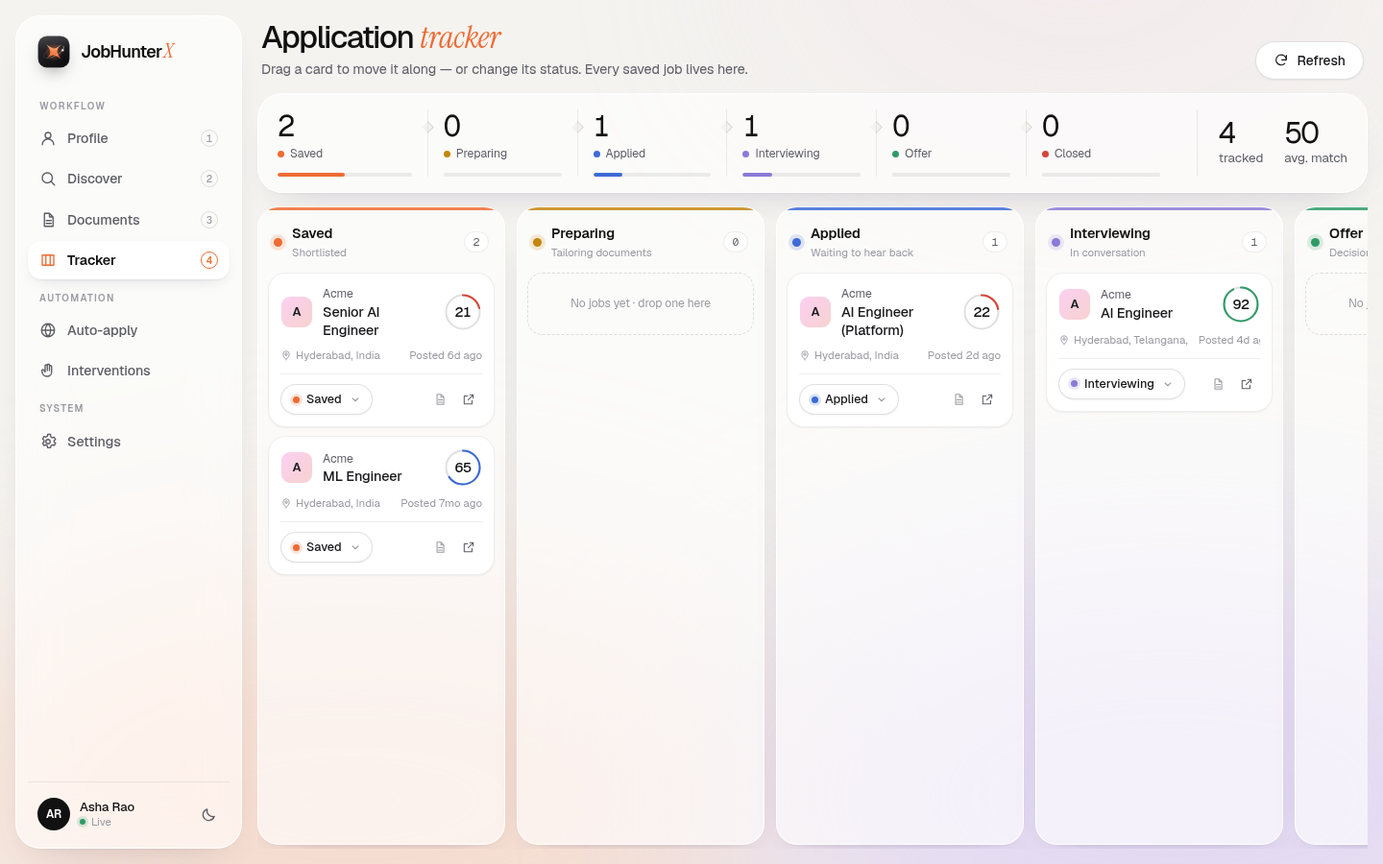
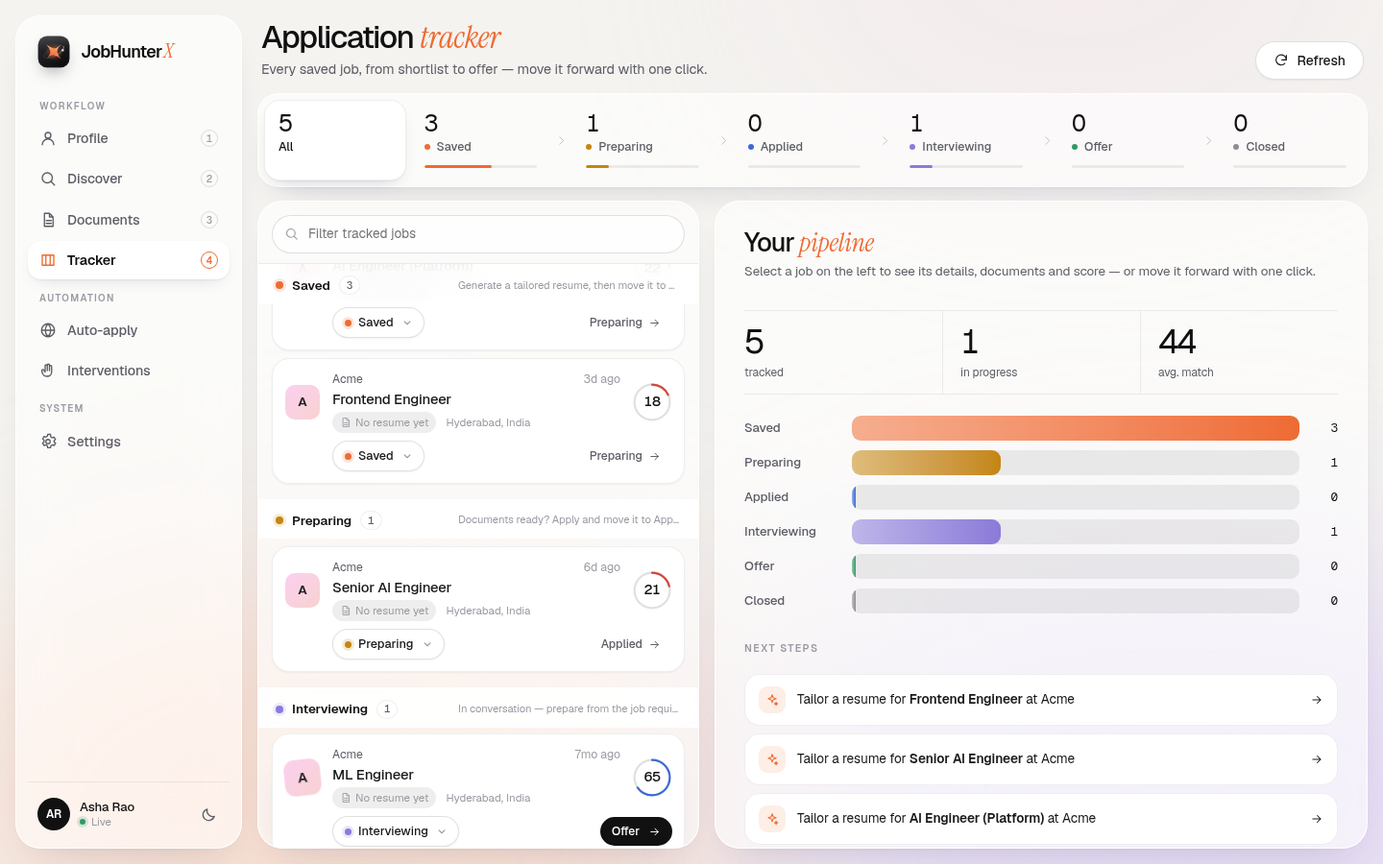
Redesign tracker as stage bar + list/detail workspace
Replaces the horizontal kanban (long empty columns, sideways scrolling):
- Stage bar with counts and share bars for the whole journey; click to
  filter (All, Saved, Preparing, Applied, Interviewing, Offer, Closed)
- Grouped list with sticky stage headers and a short tip per stage;
  each row shows score, resume status, a status dropdown and a one-click
  "move to next stage" button
- Selected job opens inline beside the list (Esc closes); otherwise a
  pipeline overview with funnel bars and real next steps (jobs that
  still need a tailored resume)
- Compact grid on phones; no horizontal page scroll

Claude-Session: https://claude.ai/code/session_01WFsbeEeBa2PdkHRR67BXba

diff --git a/jobhunterx/jobhunterx/web/js/views/other.js b/jobhunterx/jobhunterx/web/js/views/other.js
@@ -9,58 +9,80 @@ import { Button, Badge, Skeleton, ErrorBox, EmptyState, Icon, Field, PageHead, S
 import { TRACKING_LABEL, DEFAULT_TRACKING, relTime, humanize, fmtNum, safeUrl } from '../lib/format.js';
 import { setTheme } from '../actions.js';
 import { ReconnectingSocket } from '../lib/ws.js';
+import { JobDetail } from './jobdetail.js';
 
 // ---------------------------------------------------------------------------- tracker
-// Lanes follow the application journey; "Closed" gathers rejected and archived jobs.
+// Stages follow the application journey; "Closed" gathers rejected and archived jobs.
 const LANES = [
-  { key: 'saved', label: 'Saved', hint: 'Shortlisted', statuses: ['saved'], drop: 'saved' },
-  { key: 'preparing', label: 'Preparing', hint: 'Tailoring documents', statuses: ['preparing'], drop: 'preparing' },
-  { key: 'applied', label: 'Applied', hint: 'Waiting to hear back', statuses: ['applied'], drop: 'applied' },
-  { key: 'interviewing', label: 'Interviewing', hint: 'In conversation', statuses: ['interviewing'], drop: 'interviewing' },
-  { key: 'offer', label: 'Offer', hint: 'Decision time', statuses: ['offer'], drop: 'offer' },
-  { key: 'closed', label: 'Closed', hint: 'Rejected or archived', statuses: ['rejected', 'archived'], drop: 'archived' },
+  { key: 'saved', label: 'Saved', statuses: ['saved'], next: 'preparing', tip: 'Generate a tailored resume, then move it to Preparing.' },
+  { key: 'preparing', label: 'Preparing', statuses: ['preparing'], next: 'applied', tip: 'Documents ready? Apply and move it to Applied.' },
+  { key: 'applied', label: 'Applied', statuses: ['applied'], next: 'interviewing', tip: 'Waiting to hear back — follow up after a week.' },
+  { key: 'interviewing', label: 'Interviewing', statuses: ['interviewing'], next: 'offer', tip: 'In conversation — prepare from the job requirements.' },
+  { key: 'offer', label: 'Offer', statuses: ['offer'], next: null, tip: 'Decision time.' },
+  { key: 'closed', label: 'Closed', statuses: ['rejected', 'archived'], next: null, tip: 'Rejected or archived.' },
 ];
+const laneOf = (status) => LANES.find((l) => l.statuses.includes(status)) || LANES[0];
 
-function TrackCard({ job, statuses, selected, index, onOpen }) {
+function StageBar({ jobs, value, onChange }) {
+  const total = jobs.length;
+  const items = [{ key: 'all', label: 'All', n: total }, ...LANES.map((l) => ({ key: l.key, label: l.label, n: jobs.filter((j) => l.statuses.includes(j.tracking_status)).length }))];
+  return html`<nav class="stagebar card" aria-label="Pipeline stages">${items.map((it, i) => html`<button type="button" key=${it.key}
+      class=${`stage-tab s-${it.key} ${value === it.key ? 'on' : ''}`} aria-pressed=${value === it.key ? 'true' : 'false'} style=${{ '--i': i }} onClick=${() => onChange(it.key)}>
+      <span class="st-n"><${CountUp} value=${it.n} /></span>
+      <span class="st-l">${it.key !== 'all' ? html`<i class="st-dot"></i>` : null}${it.label}</span>
+      ${it.key !== 'all' ? html`<span class="st-bar"><span style=${{ width: `${total ? (it.n / total) * 100 : 0}%` }}></span></span>` : null}
+    </button>${i > 0 && i < items.length - 1 ? html`<span class="st-arrow" aria-hidden="true"><${Icon} name="next" size=${13} /></span>` : null}`)}</nav>`;
+}
+
+function TrackRow({ job, statuses, selected, index, onOpen }) {
   const pending = useStore((s) => !!s.pending.track[job.id]);
-  const [dragging, setDragging] = useState(false);
-  const apply = safeUrl(job.apply_url);
+  const lane = laneOf(job.tracking_status);
+  const next = lane.next && LANES.find((l) => l.key === lane.next);
   const docs = job.documents || {};
-  return html`<article class=${`track-card job-card ${selected ? 'is-selected' : ''} ${dragging ? 'dragging' : ''} ${pending ? 'is-moving' : ''}`} style=${{ '--i': index }}
-      draggable="true" onDragStart=${(e) => { e.dataTransfer.setData('text/x-job', job.id); e.dataTransfer.effectAllowed = 'move'; setDragging(true); }}
-      onDragEnd=${() => setDragging(false)}>
-    <button type="button" class="job-main" onClick=${() => onOpen(job.id)} aria-label=${`Open ${job.title} at ${job.company}`}>
-      <div class="tc-top"><${Monogram} name=${job.company} size=${34} />
-        <div class="grow"><div class="job-company">${job.company || 'Unknown company'}</div><strong class="track-title">${job.title}</strong></div>
-        <${ScoreRing} score=${job.match ? job.match.score : null} verdict=${job.match && job.match.verdict} size=${40} /></div>
-      <div class="tc-meta"><span><${Icon} name="pin" size=${12} />${job.location || 'Location not stated'}</span>
-        <span>${job.posted_at ? `Posted ${relTime(job.posted_at)}` : `Found ${relTime(job.discovered_at)}`}</span></div>
+  return html`<article class=${`track-row job-card ${selected ? 'is-selected' : ''} ${pending ? 'is-moving' : ''}`} style=${{ '--i': Math.min(index, 14) }}>
+    <button type="button" class="job-main tr-main" onClick=${() => onOpen(job.id)} aria-label=${`Open ${job.title} at ${job.company}`} aria-current=${selected ? 'true' : undefined}>
+      <${Monogram} name=${job.company} size=${38} />
+      <div class="grow">
+        <div class="job-company">${job.company || 'Unknown company'}<span class="job-when">${job.posted_at ? relTime(job.posted_at) : relTime(job.discovered_at)}</span></div>
+        <strong class="track-title">${job.title}</strong>
+        <div class="tr-sub"><span class=${`tc-doc ${docs.resume ? 'on' : ''}`}><${Icon} name="doc" size=${12} />${docs.resume ? 'Resume ready' : 'No resume yet'}</span>
+          <span>${job.location || 'Location not stated'}</span></div>
+      </div>
+      <${ScoreRing} score=${job.match ? job.match.score : null} verdict=${job.match && job.match.verdict} size=${42} />
     </button>
-    <div class="tc-foot">
+    <div class="tr-actions">
       <${Select} size="sm" label=${`Status for ${job.title}`} tone=${`s-${job.tracking_status}`} value=${job.tracking_status}
         onChange=${(v) => setTracking(job.id, v)} options=${statuses.map((t) => [t, TRACKING_LABEL[t] || humanize(t)])} />
-      <div class="tc-icons">
-        <span class=${`tc-doc ${docs.resume ? 'on' : ''}`} title=${docs.resume ? 'Tailored resume ready' : 'No tailored resume yet'}><${Icon} name="doc" size=${14} /></span>
-        ${apply ? html`<a class="icon-btn tc-link" href=${apply} target="_blank" rel="noopener noreferrer" aria-label="Open posting" title="Open posting"><${Icon} name="external" size=${14} /></a>` : null}
-      </div>
+      ${next ? html`<button type="button" class="advance" disabled=${pending} onClick=${() => setTracking(job.id, next.key)} title=${`Move to ${next.label}`}>
+        ${next.label} <${Icon} name="arrow" size=${13} /></button>` : null}
     </div>
   </article>`;
 }
 
-function Pipeline({ jobs }) {
-  const total = Math.max(1, jobs.length);
-  const tracked = jobs.filter((j) => j.match);
-  const avg = tracked.length ? Math.round(tracked.reduce((a, j) => a + j.match.score, 0) / tracked.length) : null;
-  return html`<section class="card pipeline" aria-label="Pipeline summary">
-    <div class="pl-stages">${LANES.map((l, i) => {
+function TrackerOverview({ jobs }) {
+  const total = jobs.length;
+  const max = Math.max(1, ...LANES.map((l) => jobs.filter((j) => l.statuses.includes(j.tracking_status)).length));
+  const scored = jobs.filter((j) => j.match);
+  const avg = scored.length ? Math.round(scored.reduce((a, j) => a + j.match.score, 0) / scored.length) : null;
+  const needResume = jobs.filter((j) => ['saved', 'preparing'].includes(j.tracking_status) && !(j.documents && j.documents.resume));
+  const active = jobs.filter((j) => ['applied', 'interviewing', 'offer'].includes(j.tracking_status)).length;
+  return html`<div class="tk-overview scroll">
+    <div class="tk-hero"><h2>Your <span class="serif">pipeline</span></h2><p class="muted small">Select a job on the left to see its details, documents and score — or move it forward with one click.</p></div>
+    <div class="tk-stats">
+      <div><span class="n"><${CountUp} value=${total} /></span><span class="l">tracked</span></div>
+      <div><span class="n"><${CountUp} value=${active} /></span><span class="l">in progress</span></div>
+      <div><span class="n">${avg == null ? '–' : html`<${CountUp} value=${avg} />`}</span><span class="l">avg. match</span></div>
+    </div>
+    <div class="funnel">${LANES.map((l, i) => {
       const n = jobs.filter((j) => l.statuses.includes(j.tracking_status)).length;
-      return html`<div class=${`pl-stage s-${l.key}`} key=${l.key} style=${{ '--i': i }}>
-        <div class="pl-num"><${CountUp} value=${n} /></div><div class="pl-label">${l.label}</div>
-        <div class="pl-bar"><span style=${{ width: `${(n / total) * 100}%` }}></span></div></div>`;
+      return html`<div class=${`fn-row s-${l.key}`} key=${l.key} style=${{ '--i': i }}><span class="fn-label">${l.label}</span>
+        <span class="fn-track"><span class="fn-fill" style=${{ width: `${(n / max) * 100}%` }}></span></span><span class="fn-n">${n}</span></div>`;
     })}</div>
-    <div class="pl-side"><div><span class="pl-big"><${CountUp} value=${jobs.length} /></span><span class="muted small">tracked</span></div>
-      <div><span class="pl-big">${avg == null ? '–' : html`<${CountUp} value=${avg} />`}</span><span class="muted small">avg. match</span></div></div>
-  </section>`;
+    ${needResume.length ? html`<div class="tk-todo"><div class="sec-title">Next steps</div>
+      ${needResume.slice(0, 5).map((j, i) => html`<a class="todo" key=${j.id} style=${{ '--i': i }} href=${`#/tracker/job/${encodeURIComponent(j.id)}`}>
+        <span class="todo-ico"><${Icon} name="spark" size=${14} /></span><span class="grow">Tailor a resume for <strong>${j.title}</strong> at ${j.company}</span><${Icon} name="arrow" size=${14} /></a>`)}
+    </div>` : null}
+  </div>`;
 }
 
 export function TrackerView() {
@@ -68,37 +90,48 @@ export function TrackerView() {
   const byId = useStore((s) => s.jobs.byId);
   const route = useStore((s) => s.route);
   const statuses = useStore((s) => (s.meta.data && s.meta.data.tracking_statuses) || DEFAULT_TRACKING);
-  const [over, setOver] = useState(null);
+  const [stage, setStage] = useState('all');
+  const [q, setQ] = useState('');
   const jobs = tr.ids.map((id) => byId[id]).filter(Boolean);
   const open = (id) => navigate(`#/tracker/job/${encodeURIComponent(id)}`);
-  const lanes = LANES.filter((l) => statuses.includes(l.drop));
-  const onDrop = (lane) => (e) => {
-    e.preventDefault(); setOver(null);
-    const id = e.dataTransfer.getData('text/x-job');
-    const job = byId[id];
-    if (job && !lane.statuses.includes(job.tracking_status)) setTracking(id, lane.drop);
-  };
+  const close = () => navigate('#/tracker');
+  useEffect(() => {
+    if (!route.jobId) return undefined;
+    const onKey = (e) => { if (e.key === 'Escape' && !document.querySelector('.overlay, .popover, .select-list')) close(); };
+    document.addEventListener('keydown', onKey);
+    return () => document.removeEventListener('keydown', onKey);
+  }, [route.jobId]);
+  const needle = q.trim().toLowerCase();
+  const visible = jobs.filter((j) => (stage === 'all' || LANES.find((l) => l.key === stage).statuses.includes(j.tracking_status))
+    && (!needle || `${j.title} ${j.company} ${j.location}`.toLowerCase().includes(needle)));
+  const groups = (stage === 'all' ? LANES : LANES.filter((l) => l.key === stage))
+    .map((l) => [l, visible.filter((j) => l.statuses.includes(j.tracking_status)).sort((a, b) => (b.match ? b.match.score : -1) - (a.match ? a.match.score : -1))])
+    .filter(([, g]) => g.length);
+  let k = 0;
   return html`<div class="view view-tracker">
-    <${PageHead} title=${html`Application <span class="serif">tracker</span>`} sub="Drag a card to move it along — or change its status. Every saved job lives here."
+    <${PageHead} title=${html`Application <span class="serif">tracker</span>`} sub="Every saved job, from shortlist to offer — move it forward with one click."
       actions=${html`<${Button} icon="refresh" busy=${tr.status === 'refreshing'} onClick=${loadTracker}>Refresh</${Button}>`} />
     ${tr.status === 'error' ? html`<${ErrorBox} message=${tr.error} onRetry=${loadTracker} />` : null}
     ${tr.status === 'ready' && !jobs.length ? html`<div class="card pane-center grow-fill"><${EmptyState} icon="star" title="Nothing tracked yet"
       action=${html`<${Button} variant="primary" onClick=${() => navigate('#/discover')}>Find roles <${Icon} name="arrow" size=${16} /></${Button}>`}>Star a job in Discover and it lands here, ready to move from shortlist to offer.</${EmptyState}></div>` : html`
-    <${Pipeline} jobs=${jobs} />
-    <div class="board" role="list">${lanes.map((lane, ci) => {
-      const col = jobs.filter((j) => lane.statuses.includes(j.tracking_status));
-      return html`<section class=${`board-col lane-${lane.key} ${over === lane.key ? 'drop-over' : ''}`} key=${lane.key} role="listitem" style=${{ '--i': ci }} aria-label=${lane.label}
-          onDragOver=${(e) => { e.preventDefault(); e.dataTransfer.dropEffect = 'move'; if (over !== lane.key) setOver(lane.key); }}
-          onDragLeave=${(e) => { if (!e.currentTarget.contains(e.relatedTarget)) setOver(null); }} onDrop=${onDrop(lane)}>
-        <header class="board-head"><span class=${`board-dot s-${lane.key}`}></span>
-          <div class="grow"><div class="board-title">${lane.label}</div><div class="board-hint">${lane.hint}</div></div>
-          <span class="board-count">${col.length}</span></header>
-        <div class="scroll board-body">
-          ${tr.status === 'loading' ? html`<${Skeleton} lines=${2} card />` : null}
-          ${col.map((j, i) => html`<${TrackCard} key=${j.id} job=${j} index=${i} statuses=${statuses} selected=${route.jobId === j.id} onOpen=${open} />`)}
-          ${tr.status !== 'loading' ? html`<div class=${`board-drop ${col.length ? 'slim' : ''}`}>${over === lane.key ? 'Release to move here' : col.length ? 'Drop here' : 'No jobs yet · drop one here'}</div>` : null}
-        </div></section>`;
-    })}</div>`}
+    <${StageBar} jobs=${jobs} value=${stage} onChange=${setStage} />
+    <div class=${`split split-tracker ${route.jobId ? 'has-detail' : ''}`}>
+      <section class="pane list-pane card" aria-label="Tracked jobs">
+        <div class="tk-tools"><label class="search-field"><${Icon} name="search" size=${15} />
+          <input type="search" placeholder="Filter tracked jobs" aria-label="Filter tracked jobs" value=${q} onInput=${(e) => setQ(e.currentTarget.value)} /></label></div>
+        <div class="scroll tk-list">
+          ${tr.status === 'loading' ? html`<${Skeleton} rows=${4} />` : null}
+          ${tr.status !== 'loading' && !groups.length ? html`<${EmptyState} icon="info" title="Nothing here">${needle ? 'No tracked jobs match this filter.' : 'No jobs at this stage yet.'}</${EmptyState}>` : null}
+          ${groups.map(([lane, g]) => html`<section class="tk-group" key=${lane.key}>
+            <header class=${`tk-group-head s-${lane.key}`}><i class="st-dot"></i>${lane.label}<span class="board-count">${g.length}</span><span class="tk-tip">${lane.tip}</span></header>
+            ${g.map((j) => html`<${TrackRow} key=${j.id} job=${j} index=${k++} statuses=${statuses} selected=${route.jobId === j.id} onOpen=${open} />`)}
+          </section>`)}
+        </div>
+      </section>
+      <section class="pane detail-pane card" aria-label=${route.jobId ? 'Job details' : 'Pipeline overview'}>
+        ${route.jobId ? html`<${JobDetail} key=${route.jobId} jobId=${route.jobId} onClose=${close} />` : html`<${TrackerOverview} jobs=${jobs} />`}
+      </section>
+    </div>`}
   </div>`;
 }
 

diff --git a/jobhunterx/jobhunterx/web/styles.css b/jobhunterx/jobhunterx/web/styles.css
@@ -676,57 +676,74 @@ textarea.input { resize: vertical; line-height: 1.6; min-height: 92px; }
 .diff-old { color: var(--text-3); text-decoration: line-through; } .rewrites li.rejected .diff-new { text-decoration: line-through; color: var(--danger); }
 
 /* -------------------------------------------------------------------------- tracker */
-.status-colors, .s-saved { --sc: var(--accent); }
+.s-all { --sc: var(--ink); } .s-saved { --sc: var(--accent); }
 .s-preparing { --sc: var(--warning); } .s-applied { --sc: var(--info); } .s-interviewing { --sc: #8b7ad8; }
-.s-offer { --sc: var(--success); } .s-rejected, .s-closed { --sc: var(--danger); } .s-archived, .s-new { --sc: var(--unknown); }
-.pipeline { flex: none; display: flex; gap: 22px; align-items: stretch; padding: 16px 20px; }
-.pl-stages { flex: 1; display: grid; grid-template-columns: repeat(6, minmax(0, 1fr)); gap: 0; }
-.pl-stage { position: relative; padding: 2px 16px 0; border-left: 1px solid var(--line); animation: fadeUp .5s var(--ease) both; animation-delay: calc(var(--i) * 50ms); }
-.pl-stage:first-child { border-left: 0; padding-left: 0; }
-.pl-stage:not(:last-child)::after { content: ""; position: absolute; right: -5px; top: 14px; width: 8px; height: 8px; border-top: 1.5px solid var(--line-strong); border-right: 1.5px solid var(--line-strong); transform: rotate(45deg); background: var(--bg); }
-.pl-num { font-size: 1.9rem; letter-spacing: -.055em; line-height: 1; color: var(--ink); font-feature-settings: "tnum"; }
-.pl-label { font-size: .76rem; color: var(--text-2); margin: 4px 0 10px; display: flex; align-items: center; gap: 6px; }
-.pl-label::before { content: ""; width: 7px; height: 7px; border-radius: 50%; background: var(--sc); }
-.pl-bar { height: 4px; border-radius: 4px; background: var(--line); overflow: hidden; }
-.pl-bar span { display: block; height: 100%; border-radius: 4px; background: var(--sc); transition: width 1s var(--ease); min-width: 0; }
-.pl-side { display: flex; gap: 22px; padding-left: 22px; border-left: 1px solid var(--line); align-items: center; }
-.pl-side > div { display: flex; flex-direction: column; }
-.pl-big { font-size: 1.9rem; letter-spacing: -.055em; line-height: 1; color: var(--ink); }
-.board { flex: 1; min-height: 0; display: grid; grid-auto-flow: column; grid-auto-columns: minmax(258px, 1fr); gap: 12px; overflow-x: auto; padding-bottom: 4px; scrollbar-width: thin; }
-.board-col { position: relative; min-height: 0; display: flex; flex-direction: column; background: var(--card); backdrop-filter: var(--blur); -webkit-backdrop-filter: var(--blur);
-  border: 1px solid var(--edge); border-radius: 22px; box-shadow: var(--shadow); overflow: hidden; animation: rise .55s var(--ease) both; animation-delay: calc(var(--i) * 55ms);
-  transition: box-shadow .3s, border-color .3s, background .3s; }
-.board-col::before { content: ""; position: absolute; left: 0; right: 0; top: 0; height: 3px; background: var(--sc); opacity: .85; }
-.board-col.drop-over { border-color: color-mix(in srgb, var(--sc) 60%, transparent); box-shadow: 0 0 0 4px color-mix(in srgb, var(--sc) 16%, transparent), var(--shadow-lg);
-  background: color-mix(in srgb, var(--sc) 6%, var(--card-hi)); }
-.lane-saved { --sc: var(--accent); } .lane-preparing { --sc: var(--warning); } .lane-applied { --sc: var(--info); } .lane-interviewing { --sc: #8b7ad8; }
-.lane-offer { --sc: var(--success); } .lane-closed { --sc: var(--unknown); }
-.board-head { display: flex; align-items: center; gap: 10px; padding: 16px 16px 10px; flex: none; }
-.board-dot { width: 9px; height: 9px; border-radius: 50%; background: var(--sc); box-shadow: 0 0 0 4px color-mix(in srgb, var(--sc) 16%, transparent); flex: none; }
-.board-title { font-size: .9rem; font-weight: 600; color: var(--ink); letter-spacing: -.01em; }
-.board-hint { font-size: .72rem; color: var(--text-3); }
-.board-count { min-width: 26px; height: 22px; padding: 0 8px; border-radius: 99px; display: grid; place-items: center; font-family: var(--mono); font-size: .72rem; color: var(--text-2);
-  background: var(--card-solid); border: 1px solid var(--line); }
-.board-body { padding: 2px 10px 12px; display: flex; flex-direction: column; gap: 9px; }
-.board-drop { border: 1.5px dashed var(--line-strong); border-radius: 16px; padding: 22px 12px; text-align: center; font-size: .76rem; color: var(--text-3); transition: all .25s var(--ease); }
-.board-drop.slim { padding: 10px; opacity: 0; }
-.board-col.drop-over .board-drop { opacity: 1; border-color: var(--sc); color: var(--ink); background: color-mix(in srgb, var(--sc) 8%, transparent); padding: 22px 12px; }
-.job-card.track-card { padding: 12px; gap: 10px; border-radius: 18px; cursor: grab; flex: none; }
-.job-card.track-card:active { cursor: grabbing; }
-.track-card.dragging { opacity: .35; transform: rotate(-2deg) scale(.98); }
-.track-card.is-moving { animation: pulseCard 1s ease-in-out infinite; }
-@keyframes pulseCard { 50% { opacity: .6; } }
-.track-card .job-main { padding: 0; gap: 8px; }
-.tc-top { display: flex; gap: 10px; align-items: center; }
-.tc-top .monogram { border-radius: 10px; font-size: .8rem; }
-.track-title { display: block; font-weight: 500; font-size: .9rem; line-height: 1.3; letter-spacing: -.01em; }
-.tc-meta { display: flex; justify-content: space-between; gap: 8px; font-size: .72rem; color: var(--text-3); }
-.tc-meta span { display: inline-flex; align-items: center; gap: 4px; min-width: 0; white-space: nowrap; overflow: hidden; text-overflow: ellipsis; }
-.tc-foot { display: flex; align-items: center; justify-content: space-between; gap: 8px; padding-top: 10px; border-top: 1px solid var(--line); }
-.tc-icons { display: flex; align-items: center; gap: 2px; }
-.tc-doc { width: 28px; height: 28px; border-radius: 50%; display: grid; place-items: center; color: var(--text-3); }
-.tc-doc.on { color: var(--success); background: color-mix(in srgb, var(--success) 10%, transparent); }
-.tc-link { width: 28px; height: 28px; }
+.s-offer { --sc: var(--success); } .s-rejected { --sc: var(--danger); } .s-closed, .s-archived, .s-new { --sc: var(--unknown); }
+.st-dot { display: inline-block; width: 8px; height: 8px; border-radius: 50%; background: var(--sc); flex: none; box-shadow: 0 0 0 3px color-mix(in srgb, var(--sc) 16%, transparent); }
+
+/* stage bar: the whole journey in one row, fits the width — no sideways scrolling */
+.stagebar { flex: none; display: flex; align-items: stretch; gap: 4px; padding: 6px; border-radius: 22px; }
+.stage-tab { flex: 1; min-width: 0; display: flex; flex-direction: column; align-items: flex-start; gap: 2px; padding: 10px 14px 12px; border: 1px solid transparent; border-radius: 16px;
+  background: transparent; font: inherit; color: var(--text-2); cursor: pointer; text-align: left; transition: background .25s, box-shadow .3s, border-color .25s, transform .25s var(--spring);
+  animation: fadeUp .45s var(--ease) both; animation-delay: calc(var(--i) * 40ms); }
+.stage-tab:hover { background: var(--card-hi); }
+.stage-tab:active { transform: scale(.98); }
+.stage-tab.on { background: var(--card-solid); border-color: var(--line); box-shadow: var(--shadow-sm), 0 8px 20px -12px rgba(40,30,80,.3); color: var(--ink); }
+.st-n { font-size: 1.55rem; line-height: 1.05; letter-spacing: -.055em; color: var(--ink); font-feature-settings: "tnum"; }
+.stage-tab.on .st-n { color: var(--sc); }
+.s-all.on .st-n { color: var(--ink); }
+.st-l { display: inline-flex; align-items: center; gap: 7px; font-size: .78rem; font-weight: 500; white-space: nowrap; }
+.st-l .st-dot { width: 6px; height: 6px; box-shadow: none; }
+.st-bar { display: block; width: 100%; height: 3px; margin-top: 7px; border-radius: 3px; background: var(--line); overflow: hidden; }
+.st-bar span { display: block; height: 100%; border-radius: 3px; background: var(--sc); transition: width 1s var(--ease); }
+.st-arrow { display: grid; place-items: center; color: var(--text-3); opacity: .6; flex: none; }
+
+.split-tracker { grid-template-columns: minmax(360px, 460px) minmax(0, 1fr); }
+.tk-tools { padding: 14px 14px 10px; border-bottom: 1px solid var(--line); flex: none; }
+.tk-tools .search-field { height: 40px; }
+.tk-list { padding: 6px 14px 16px; display: flex; flex-direction: column; gap: 6px; }
+.tk-group { display: flex; flex-direction: column; gap: 8px; }
+.tk-group + .tk-group { margin-top: 10px; }
+.tk-group-head { position: sticky; top: -6px; z-index: 2; display: flex; align-items: center; gap: 9px; padding: 12px 4px 8px; font-size: .84rem; font-weight: 600; color: var(--ink);
+  margin: 0 -14px; padding-left: 18px; padding-right: 18px; border-bottom: 1px solid transparent;
+  background: color-mix(in srgb, var(--card-solid) 88%, transparent); backdrop-filter: blur(12px); -webkit-backdrop-filter: blur(12px); }
+.tk-group-head .board-count { min-width: 22px; height: 20px; padding: 0 7px; border-radius: 99px; display: grid; place-items: center; font-family: var(--mono); font-size: .68rem; font-weight: 500;
+  color: var(--text-2); background: var(--card-solid); border: 1px solid var(--line); }
+.tk-tip { margin-left: auto; font-size: .7rem; font-weight: 400; color: var(--text-3); white-space: nowrap; overflow: hidden; text-overflow: ellipsis; max-width: 55%; }
+.job-card.track-row { padding: 0; border-radius: 18px; }
+.track-row.is-moving { animation: pulseCard 1s ease-in-out infinite; }
+@keyframes pulseCard { 50% { opacity: .55; } }
+.tr-main { flex-direction: row; align-items: center; gap: 12px; padding: 12px 12px 8px; }
+.tr-main .monogram { border-radius: 11px; font-size: .84rem; }
+.track-title { display: block; font-weight: 500; font-size: .93rem; line-height: 1.3; letter-spacing: -.015em; margin-top: 1px; }
+.tr-sub { display: flex; gap: 10px; align-items: center; margin-top: 4px; font-size: .72rem; color: var(--text-3); min-width: 0; }
+.tr-sub > span:last-child { white-space: nowrap; overflow: hidden; text-overflow: ellipsis; }
+.tc-doc { display: inline-flex; align-items: center; gap: 4px; padding: 2px 8px; border-radius: 99px; background: var(--line); color: var(--text-3); white-space: nowrap; flex: none; }
+.tc-doc.on { color: var(--success); background: color-mix(in srgb, var(--success) 11%, transparent); }
+.tr-actions { display: flex; align-items: center; justify-content: space-between; gap: 8px; padding: 0 12px 12px 62px; }
+.advance { display: inline-flex; align-items: center; gap: 6px; height: 30px; padding: 0 12px; border-radius: 99px; border: 0; font: inherit; font-size: .76rem; font-weight: 500; cursor: pointer;
+  color: var(--text-2); background: transparent; transition: background .2s, color .2s, gap .25s var(--spring); }
+.advance:hover:not(:disabled) { background: var(--ink); color: var(--on-ink); gap: 9px; }
+.advance:disabled { opacity: .4; cursor: progress; }
+
+.tk-overview { padding: 28px 30px; display: flex; flex-direction: column; gap: 22px; animation: fade .4s; }
+.tk-hero h2 { font-size: 1.7rem; letter-spacing: -.045em; margin-bottom: 4px; }
+.tk-stats { display: grid; grid-template-columns: repeat(3, minmax(0, 1fr)); border-top: 1px solid var(--line); border-bottom: 1px solid var(--line); }
+.tk-stats > div { padding: 14px 4px 12px 18px; border-left: 1px solid var(--line); } .tk-stats > div:first-child { border-left: 0; padding-left: 0; }
+.tk-stats .n { display: block; font-size: 2.2rem; letter-spacing: -.06em; line-height: 1.05; color: var(--ink); font-feature-settings: "tnum"; }
+.tk-stats .l { font-size: .74rem; color: var(--text-2); }
+.funnel { display: flex; flex-direction: column; gap: 10px; }
+.fn-row { display: grid; grid-template-columns: 100px minmax(0, 1fr) 28px; align-items: center; gap: 12px; animation: fadeUp .45s var(--ease) both; animation-delay: calc(var(--i) * 50ms); }
+.fn-label { font-size: .82rem; color: var(--text-2); font-weight: 500; }
+.fn-track { height: 26px; border-radius: 9px; background: var(--line); overflow: hidden; }
+.fn-fill { display: block; height: 100%; min-width: 4px; border-radius: 9px; background: linear-gradient(90deg, color-mix(in srgb, var(--sc) 55%, var(--card-solid)), var(--sc)); transition: width 1.1s var(--ease); }
+.fn-n { font-family: var(--mono); font-size: .8rem; color: var(--ink); text-align: right; }
+.tk-todo { display: flex; flex-direction: column; gap: 8px; }
+.todo { display: flex; align-items: center; gap: 12px; padding: 12px 14px; border-radius: 16px; background: var(--card-solid); border: 1px solid var(--line); text-decoration: none; color: var(--text);
+  font-size: .85rem; transition: transform .25s var(--spring), border-color .2s; animation: rise .45s var(--ease) both; animation-delay: calc(.2s + var(--i) * 50ms); }
+.todo:hover { transform: translateX(3px); border-color: color-mix(in srgb, var(--accent) 45%, transparent); }
+.todo strong { font-weight: 600; }
+.todo-ico { width: 28px; height: 28px; border-radius: 9px; display: grid; place-items: center; color: var(--accent); background: var(--accent-soft); flex: none; }
 
 /* -------------------------------------------------------------------------- browser agent / interventions / settings */
 .split-browser { grid-template-columns: minmax(0, 1fr) 340px; }
@@ -824,11 +841,10 @@ textarea.input { resize: vertical; line-height: 1.6; min-height: 92px; }
   .view, .split, .pane, .detail, .editor { height: auto; min-height: 0; overflow: visible; }
   .split, .split-profile, .split-docs, .split-browser, .split-settings { grid-template-columns: 1fr; }
   .scroll { overflow: visible; flex: none; }
-  .view-discover .split:not(.has-detail) .detail-pane, .view-discover .split.has-detail .list-pane { display: none; }
+  .view-discover .split:not(.has-detail) .detail-pane, .view-discover .split.has-detail .list-pane, .split-tracker:not(.has-detail) .detail-pane, .split-tracker.has-detail .list-pane { display: none; }
   .mission { height: auto; }
-  .board { grid-auto-columns: minmax(240px, 80vw); min-height: 60vh; }
-  .board-col { max-height: 70vh; } .board-col .scroll { overflow-y: auto; flex: 1; }
-  .bw-stage { min-height: 420px; } .pipeline { flex-direction: column; } .pl-stages { grid-template-columns: repeat(3, 1fr); row-gap: 14px; } .pl-side { border-left: 0; padding-left: 0; }
+  .bw-stage { min-height: 420px; } .stagebar { display: grid; grid-template-columns: repeat(4, minmax(0, 1fr)); gap: 2px; padding: 4px; } .stage-tab { padding: 8px 8px 9px; border-radius: 12px; }
+  .st-n { font-size: 1.15rem; } .st-l { font-size: .68rem; } .st-bar, .st-arrow, .tk-tip { display: none; } .tr-actions { padding-left: 12px; }
   .form-grid, .two-col { grid-template-columns: 1fr; }
   .detail-header { flex-direction: column; align-items: flex-start; padding-right: 0; }
   .detail-tools { position: static; justify-content: flex-start; }

diff --git a/jobhunterx/jobhunterx/web/js/app.js b/jobhunterx/jobhunterx/web/js/app.js
@@ -5,7 +5,6 @@ import { useStore } from './state/store.js';
 import { boot, navigate, setTheme, retryBoot } from './actions.js';
 import { Icon, ConfirmDialog, Toasts, Button } from './components/ui.js';
 import { DiscoverView } from './views/discover.js';
-import { JobDetailDrawer } from './views/jobdetail.js';
 import { ProfileView } from './views/profile.js';
 import { DocumentsView } from './views/documents.js';
 import { OnboardingView } from './views/onboarding.js';
@@ -115,7 +114,6 @@ function AppShell() {
       <${View} key=${route.page} />
     </main>
     ${activity ? html`<div class="activity-line" aria-live="polite" key=${activity.id}>${activity.message}</div>` : null}
-    ${route.jobId && route.page === 'tracker' ? html`<${JobDetailDrawer} key=${route.jobId} jobId=${route.jobId} onClose=${() => navigate('#/tracker')} />` : null}
   </div>`;
 }
 

diff --git a/README.md b/README.md
@@ -122,7 +122,7 @@ Dark theme is one click away.
 <br/><sub><i>Profile — understanding on the left, a tabbed editor on the right</i></sub>
 <br/><br/>
 <img src="assets/ui_tracker.png" alt="Application tracker" width="90%"/>
-<br/><sub><i>Tracker — pipeline summary on top, drag-and-drop lanes from Saved to Offer, colour-coded status dropdowns on every card</i></sub>
+<br/><sub><i>Tracker — the whole journey in one stage bar, a grouped list with one-click “move to next stage”, and the job (or a pipeline overview with next steps) beside it — no sideways scrolling</i></sub>
 <br/><br/>
 <img src="assets/ui_browser.png" alt="Auto-apply agent" width="90%"/>
 <br/><sub><i>Auto-apply agent — a live browser window with LIVE badge and take-over mode, plus agent status, current step and an activity timeline</i></sub>
